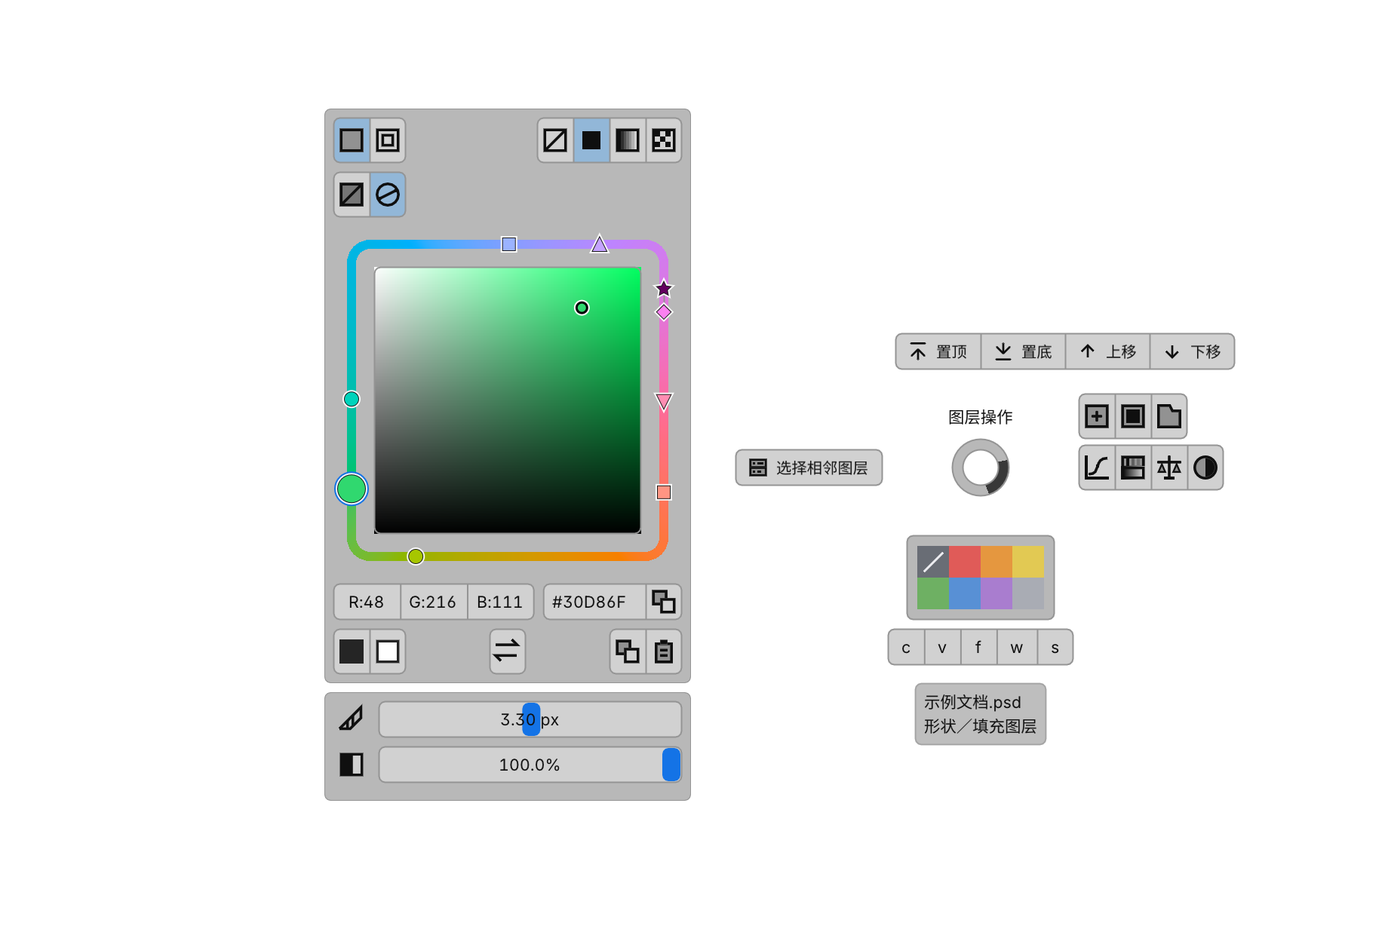
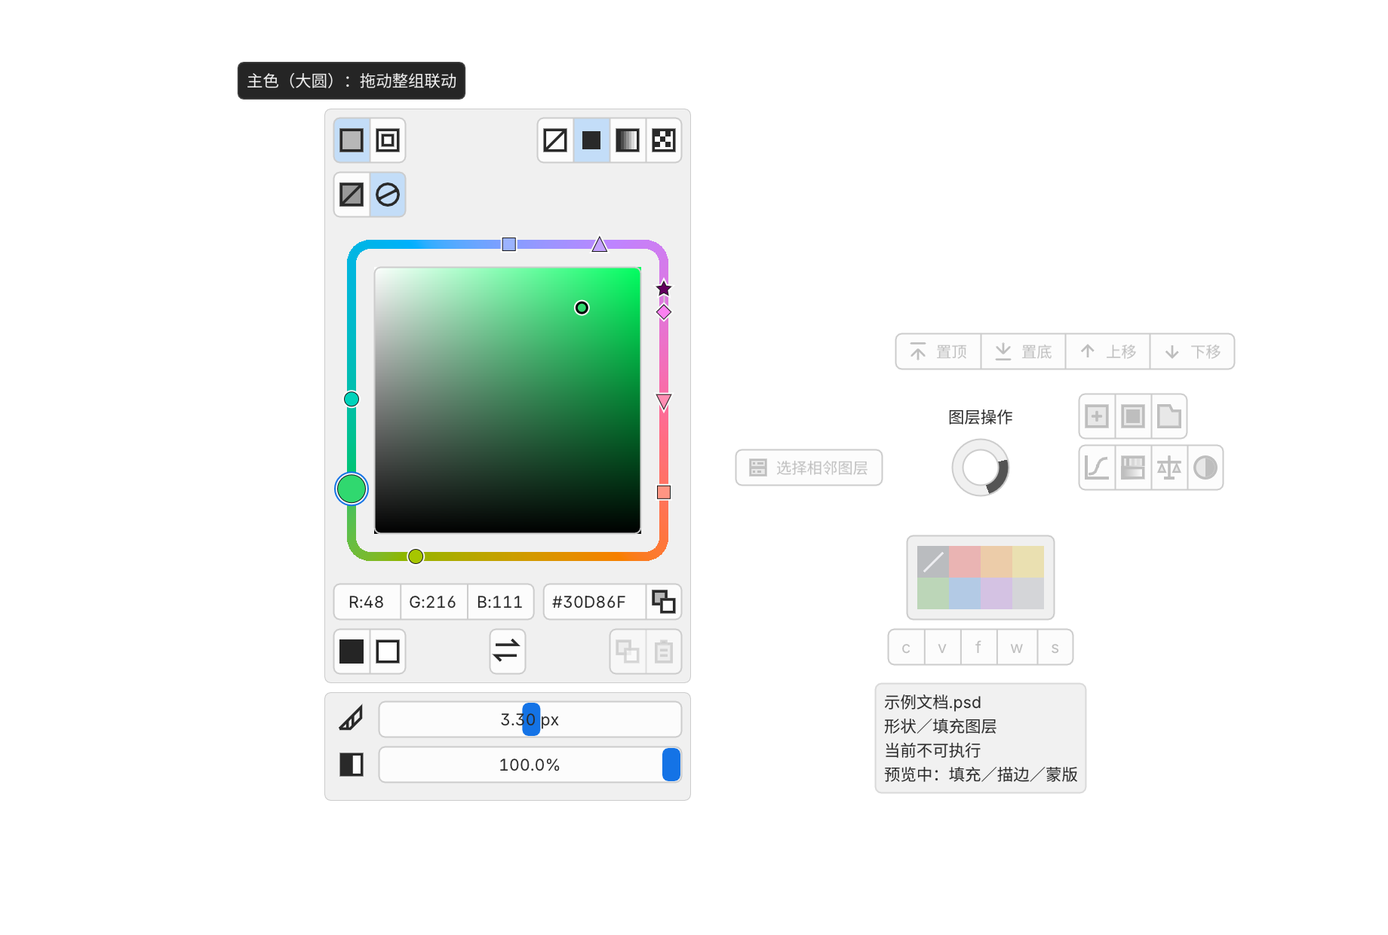
Release 0.4.190: keep owning-editor tooltips visible during preview and avoid clipped placement

diff --git a/native/MenuHost.cpp b/native/MenuHost.cpp
@@ -288,7 +288,9 @@ static unsigned renderedFrames=0;
 static std::wstring preview;
 static std::string previewKind="menu";
 static int previewRecentHover=-1;
-static int previewQuickHover=-1,previewActionHover=-1,previewCapsHover=-1;
+static int previewQuickHover=-1,previewActionHover=-1,previewCapsHover=-1,previewShapeHover=-1;
+static bool previewOwningEditor=false;
+static float previewShapeHeight=0;
 static bool previewLifecycle=false;
 static bool previewLive=false;
 static bool previewShape=false;
@@ -1071,11 +1073,15 @@ static ImVec4 actionTipBounds(int action) {
     const auto pos=ImGui::GetMainViewport()->Pos,size=ImGui::GetMainViewport()->Size;
     if(action>=200 && action<234){
         const RECT group=tipGroupRect(action),anchor=shapeTipRows[action-200];
+        const auto heading=font->CalcTextSizeA(font->FontSize,FLT_MAX,0,panelTitle());
+        const RECT centre={LONG(pieCenter.x-std::max(19*scale,heading.x*.5f)),LONG(pieCenter.y-40*scale),
+                           LONG(pieCenter.x+std::max(19*scale,heading.x*.5f)),LONG(pieCenter.y+19*scale)};
         const float x=std::clamp((anchor.left+anchor.right-width)*.5f,pos.x+8*scale,std::max(pos.x+8*scale,pos.x+size.x-width-8*scale));
         const ImVec4 above={x,group.top-gap-height,x+width,group.top-gap};
         auto valid=[&](ImVec4 tip){
             if(tip.x<pos.x+8*scale || tip.y<pos.y+8*scale || tip.z>pos.x+size.x-8*scale || tip.w>pos.y+size.y-8*scale)return false;
             if(tipOverlaps(tip,shapeEditor.bounds,2*scale) || tipOverlaps(tip,shapeEditor.maskBounds,2*scale))return false;
+            if(tipOverlaps(tip,centre,2*scale))return false;
             for(const auto& row:holdRows)if(tipOverlaps(tip,row,2*scale))return false;
             for(const auto& row:quickRows)if(tipOverlaps(tip,row,2*scale))return false;
             for(const auto& row:capsRows)if(tipOverlaps(tip,row,2*scale))return false;
@@ -1086,7 +1092,24 @@ static ImVec4 actionTipBounds(int action) {
         const float left=group.left-gap-width;
         const float y=std::clamp(float(anchor.top),pos.y+8*scale,std::max(pos.y+8*scale,pos.y+size.y-height-8*scale));
         for(const auto& candidate:std::array<ImVec4,3>{{{left,y,left+width,y+height},{group.right+gap,y,group.right+gap+width,y+height},{x,group.bottom+gap,x+width,group.bottom+gap+height}}})if(valid(candidate))return candidate;
-        return {};
+        // A tall panel can touch the viewport edge. Search free side corridors
+        // instead of silently suppressing the tip when all four anchors fail.
+        std::vector<float> rows={float(group.top),float(anchor.top),pos.y+8*scale,pos.y+size.y-height-8*scale};
+        auto obstacle=[&](RECT r){if(r.right>r.left && r.bottom>r.top){rows.push_back(r.top-gap-height);rows.push_back(r.bottom+gap);}};
+        obstacle(centre);obstacle(shapeEditor.bounds);obstacle(shapeEditor.maskBounds);
+        obstacle({LONG(footerBounds.x),LONG(footerBounds.y),LONG(footerBounds.z),LONG(footerBounds.w)});
+        for(const auto& r:holdRows)obstacle(r);
+        for(const auto& r:quickRows)obstacle(r);
+        for(const auto& r:capsRows)obstacle(r);
+        ImVec4 best{};float score=FLT_MAX;
+        for(float px:{float(group.right)+gap,left,pos.x+8*scale,pos.x+size.x-width-8*scale})for(float py:rows){
+            const ImVec4 candidate={roundf(px),roundf(py),roundf(px+width),roundf(py+height)};
+            if(!valid(candidate))continue;
+            const float dx=(candidate.x+candidate.z-anchor.left-anchor.right)*.5f,dy=(candidate.y+candidate.w-anchor.top-anchor.bottom)*.5f;
+            const float distance=dx*dx+dy*dy;
+            if(distance<score){score=distance;best=candidate;}
+        }
+        return best;
     }
     RECT anchor=action>=40?capsRows[action-40]:action>=32?quickRows[action-32]:action>=12?recentRows[action-12]:action>=4?labelRows[action-4]:holdRows[action];
     RECT group=anchor;
@@ -1463,7 +1486,8 @@ static void drawPie() {
     messages.push_back(taskStatus()+(taskFailed && !taskError.empty()?"\n"+taskError:""));
     drawFooter(messages,pieCenter.y+(capsReady && panelKind!=4?143.f:116.f)*scale,panelKind==4);
     const int tipAction=shapeEditor.ready() && shapeTipCandidate>=200?shapeTipCandidate:actionTipText(selected)?selected:-1;
-    const bool showTip=!pieAnimating && !holdFinished && canExecute();
+    const bool ownEditorTip=tipAction>=200 && tipAction<234 && shapeEditor.ready();
+    const bool showTip=!pieAnimating && !holdFinished && !inputFocused && !ImGui::IsAnyItemActive() && (ownEditorTip || canExecute());
     const int displayed=!preview.empty()?(showTip?tipAction:-1):hoverTip.update(tipAction,tipFamily(tipAction),GetTickCount64(),tipGapAt(hoverTip.shown,cursor),showTip);
     if(displayed>=0)drawActionTip(displayed);else tipVisual.reset();
 }
@@ -1718,6 +1742,9 @@ int main() {
         else if (i+1<argc && arg==L"--preview-caps-hover") previewCapsHover=std::stoi(argv[++i]);
         else if (i+1<argc && arg==L"--preview-quick-hover") previewQuickHover=std::stoi(argv[++i]);
         else if (i+1<argc && arg==L"--preview-progress") previewProgressStage=std::filesystem::path(argv[++i]).u8string();
+        else if (i+1<argc && arg==L"--preview-shape-hover") previewShapeHover=std::stoi(argv[++i]);
+        else if (arg==L"--preview-owning-editor") previewOwningEditor=true;
+        else if (i+1<argc && arg==L"--preview-shape-height") previewShapeHeight=std::clamp(std::stof(argv[++i]),440.f,620.f);
         else if (i+1<argc && arg==L"--preview-shape") {
             std::ifstream source(std::filesystem::path(argv[++i]));Json data;source>>data;
             shapeEditor.prepare(data);previewShape=true;previewKind="hold";
@@ -1973,7 +2000,7 @@ int main() {
     if (!selfTest) {ShowWindow(window,preview.empty()?SW_SHOWNORMAL:SW_SHOWNOACTIVATE);UpdateWindow(window);}
         resetMenu();
         if (previewKind=="hold" || previewKind=="busy") {
-            SetWindowPos(window,nullptr,testOrigin.x,testOrigin.y,static_cast<int>((previewShape?920:panelKind==4?820:620)*scale),static_cast<int>((previewShape?menuShapeWindowHeight:440)*scale),SWP_NOZORDER|SWP_NOACTIVATE);
+            SetWindowPos(window,nullptr,testOrigin.x,testOrigin.y,static_cast<int>((previewShape?920:panelKind==4?820:620)*scale),static_cast<int>((previewShape?(previewShapeHeight>0?previewShapeHeight:menuShapeWindowHeight):440)*scale),SWP_NOZORDER|SWP_NOACTIVATE);
             setHoldMode(true);
             if (previewKind=="busy") accept({{"type","operation"},{"busy",true},{"action","select"}});
             if(!previewProgressStage.empty())accept({{"type","preview.progress"},{"epoch",menuEpoch},{"phase","preview"},{"stage",previewProgressStage},{"done",12},{"total",previewProgressStage=="redraw"?0:32},{"frame",2}});
@@ -2055,6 +2082,12 @@ int main() {
                     io.AddMousePosEvent((r.left+r.right)*.5f,(r.top+r.bottom)*.5f);
                     io.AddMouseButtonEvent(ImGuiMouseButton_Left,frames==22);
                 }
+            }
+            if(!preview.empty() && previewShapeHover>=0 && previewShapeHover<34 && frames>=2){
+                const auto r=shapeTipRows[previewShapeHover];
+                const ImVec2 point=previewShapeHover>=25?perceptualPicker.points[previewShapeHover-25]:ImVec2{(r.left+r.right)*.5f,(r.top+r.bottom)*.5f};
+                io.AddMouseViewportEvent(ImGui::GetMainViewport()->ID);io.AddMousePosEvent(point.x,point.y);io.AddMouseButtonEvent(ImGuiMouseButton_Left,false);
+                if(previewOwningEditor)maskPreviewStarted=true;
             }
             ImGui::NewFrame();drawMenu();ImGui::Render();
             ++renderedFrames;
@@ -2619,6 +2652,34 @@ int main() {
                     if(perceptualPicker.active!=i || perceptualPicker.base!=base || testedActions.size()!=shapeCount)
                         throw std::runtime_error("Wheel point pickup changed the base or dispatched a second task");
                 }
+                // A hovered, still-editable color control must retain its
+                // read-only tip after the first write starts the shared preview.
+                hoverTip.reset();const auto roleHover=perceptualPicker.points[3];
+                io.AddMousePosEvent(roleHover.x,roleHover.y);numberFrame(ImGuiKey_None,false);
+                hoverTip.pendingSince=GetTickCount64()-200;numberFrame(ImGuiKey_None,false);
+                if(!maskPreviewStarted || canExecute() || !shapeEditor.ready() || hoverTip.shown!=228 || !tipVisual.ready)
+                    throw std::runtime_error("Owning live preview recognized hover but suppressed its visible tooltip");
+                const auto tipTestTheme=uiTheme,tipTestFont=uiFontSize;auto* tipTestDefault=io.FontDefault;
+                for(const char* themeName:{"light","light-gray","dark-gray","dark"})for(const char* fontName:{"small","large"})for(float panelHeight:{500.f,620.f}){
+                    uiTheme=themeName;theme();uiFontSize=fontName;io.FontDefault=menuFonts[fontIndex()];
+                    SetWindowPos(window,nullptr,0,0,int(920*scale),int(panelHeight*scale),SWP_NOMOVE|SWP_NOZORDER|SWP_NOACTIVATE);
+                    ImGui_ImplWin32_NewFrame();numberFrame(ImGuiKey_None,false);
+                    for(int i=0;i<perceptual::wheelCount;++i){
+                        const auto p=perceptualPicker.points[i];hoverTip.reset();io.AddMousePosEvent(p.x,p.y);numberFrame(ImGuiKey_None,false);
+                        hoverTip.pendingSince=GetTickCount64()-200;numberFrame(ImGuiKey_None,false);
+                        if(hoverTip.shown!=225+i || !tipVisual.ready || tipVisual.bounds.z<=tipVisual.bounds.x ||
+                           tipOverlaps(tipVisual.bounds,shapeEditor.bounds) || tipOverlaps(tipVisual.bounds,shapeEditor.maskBounds))
+                            throw std::runtime_error("Live preview tooltip clipped or missing in theme/font/height matrix: "+std::to_string(i)+" "+themeName+" "+fontName+" "+std::to_string(panelHeight));
+                        if(canExecute() || capsEnabled(0) || holdActionAt({LONG((tipVisual.bounds.x+tipVisual.bounds.z)*.5f),LONG((tipVisual.bounds.y+tipVisual.bounds.w)*.5f)})!=-1)
+                            throw std::runtime_error("Tooltip display changed input or operation permissions");
+                    }
+                }
+                uiTheme=tipTestTheme;theme();uiFontSize=tipTestFont;io.FontDefault=tipTestDefault;
+                SetWindowPos(window,nullptr,0,0,int(920*scale),int(menuShapeWindowHeight*scale),SWP_NOMOVE|SWP_NOZORDER|SWP_NOACTIVATE);
+                ImGui_ImplWin32_NewFrame();numberFrame(ImGuiKey_None,false);
+                inputFocused=true;numberFrame(ImGuiKey_None,false);
+                if(tipVisual.ready || hoverTip.shown!=-1)throw std::runtime_error("Input protection retained a visible editing tooltip");
+                inputFocused=false;numberFrame(ImGuiKey_None,false);
                 const auto wheelDraft=shapeEditor.draft;const auto dot=perceptualPicker.points[3];
                 io.AddMousePosEvent(dot.x,dot.y);numberFrame(ImGuiKey_None,false);io.AddMouseButtonEvent(0,true);numberFrame(ImGuiKey_None,false);
                 const auto wb=perceptualPicker.wheelBounds;const float cx=(wb.left+wb.right)*.5f,cy=(wb.top+wb.bottom)*.5f;
@@ -2884,7 +2945,14 @@ int main() {
                 inputFocused=false;capsReady=false;
                 std::cout<<"Dear ImGui self-test passed: original radial/focus/input/cancel matrix; shape local draft, types, single release, stale cursor, pinned commit; production SHOWWINDOW content and 100 hidden frames\n";break;
             }
-            if (!preview.empty() && frames==20) {screenshot(preview);if (!previewLive) break;}
+            if (!preview.empty() && frames==20) {
+                screenshot(preview);
+                if(previewShapeHover>=0){auto report=std::filesystem::path(preview);report+=L".tooltip.json";
+                    std::ofstream(report)<<Json{{"candidate",shapeTipCandidate},{"visible",tipVisual.ready},{"text",tipVisual.text},
+                        {"bounds",{tipVisual.bounds.x,tipVisual.bounds.y,tipVisual.bounds.z,tipVisual.bounds.w}},
+                        {"preview_running",maskPreviewStarted},{"other_actions_enabled",canExecute()}}.dump();}
+                if (!previewLive) break;
+            }
             if (SUCCEEDED(swapChain->Present(1,0))) renderedHit=holdFinished?-1:pendingHit;
             finishPlatformFrame();
         }

diff --git a/backend/version.py b/backend/version.py
@@ -1,1 +1,1 @@
-APP_VERSION = '0.4.189'
+APP_VERSION = '0.4.190'

diff --git a/TODO.md b/TODO.md
@@ -1,7 +1,10 @@
 # Photoshop Menu TODO
 
+- [x] 190提示修复代码／构建／实际入口：修复颜色／羽化实时预览开始后悬停tip消失：只读提示按当前编辑面板是否仍可用显示，不再被“其他图层操作禁用”的条件一并关闭。其他操作、目标、输入与未知结果保护保持。 原189条件已复现；双核原生完整矩阵＋144悬停场景、四主题32普通导出＋172张提示像素核对及两轮PS事务通过。实际190／UXP43，无需重启PS，原稿／配置／资源与未知记录保留。实体鼠标／画布仍待验收；未改Python／前端使用既有回归基线。证据.runtime/tooltip190-reproduced.json、tooltip190/pixels.json、tooltip190-batch/pixels.json、recovery190/runtime.json、live-matrix.json及native190-low.log。
+- [ ] 190公开交付：待源码／标签、Wiki、公开附件和限流备用更新核验；之后只保留190 Release，188／189附件先备份、标签和源码历史保留。
+
 - [x] 189配色标记代码／构建／实际入口：用形状识别配色关系：主色大圆、邻近色小圆、互补色菱形、分裂互补色上／下三角、三色配色方形、强调／明暗对比色星形。九个标记仍同时显示，内部显示真实颜色，选中用蓝色轮廓强调。 452回归、双核原生完整矩阵、四主题32导出及两轮PS24.0.1事务通过（低CPU取消恢复、正常确认一次撤销）；尖角命中、九点拾取／拖动、闲置缓存及输入／焦点／取消保持。实际189／UXP43，未重启PS；原稿／配置／资源与旧未知记录保留。实体键鼠／画布与其他硬件待验收。证据.runtime/recovery189/runtime.json、live-matrix.json、native189-low.log、ui189-verified.json。
-- [ ] 189公开交付：待源码／标签、Wiki、公开附件及限流备用通道核验；通过后仅保留189 Release，旧附件本地备份及Git标签／源码历史保留。
+- [ ] 189公开交付由190收尾：189源码／标签、形状标记与Wiki已推送，但用户指出hover tip实际显示失败；保留该失败记录，未把目标识别检查当显示通过。修复合并190，待190下载核验后统一交付、保留189标签和回退副本。
 
 - [x] 188代码、构建与实际入口：预览脚本退出后恢复PS原生操作；未完全结束时继续保留图层列表点击保护和小运行提示。颜色编辑改为中央方块＋外围圆角色相轨道，九种配色点同显、主色点更大。 v0.4.188／UXP0.3.43已构建并切换本机实际入口，EXE及原生组件匹配。452项Python回归、40项前端、脚本模拟、双逻辑处理器／Below Normal原生完整矩阵及四主题32份原生导出通过。PS24.0.1六轮真实事务（低CPU四轮、正常两轮）核对确认一次撤销、取消恢复、选层／内容／路径／顺序及资源还原；包括128层确认及两次调用端暂失确认的故障注入。故障注入不改原收据、不重发；宿主退出后原生配置确认解除保护，插件新写入继续被拒绝，再仅读取原收据完成核对。原稿已备份并正常重载，历史未知记录及配置保持。 原生模拟输入和PS接口测试分别记录，未代替实体鼠标／Caps／Esc到画布目视与提示音验收；现代PS、真实办公i5／集显／低内存及Win10仍待对应设备验证。双核限制仅模拟CPU并发。128层收尾本轮约12.4秒，仍有等待，本次不宣称其首次读取已提速。 证据.runtime/recovery188/runtime.json、live-matrix.json、tests188.log、native188-low.log、ui188-verified.json。
 - [ ] 188实体画布／键鼠与跨硬件验收：核对新方块拖动、九点联动、真实Esc、收尾提示及PS原生操作；现代PS／真实办公低配单列，不能用模拟替代。

diff --git a/docs/PERCEPTUAL-COLOR.md b/docs/PERCEPTUAL-COLOR.md
@@ -1,5 +1,15 @@
 # 方块取色、感知配色与渐变
 
+190／UXP43：修复颜色／羽化实时预览开始后悬停tip消失：只读提示按当前编辑面板是否仍可用显示，不再被“其他图层操作禁用”的条件一并关闭。其他操作、目标、输入与未知结果保护保持。
+
+在配色标记、填充／描边、取色器切换及羽化／密度上悬停可查看说明；拖动或输入时仍隐藏提示。首次停留150ms、同组切换60ms及原有视觉过渡不变，不增加按键或宿主调用等待。高面板贴近窗口边缘时，四个默认位置放不下会继续寻找空闲侧边位置，避让编辑面板、中心、按钮和信息区；提示仍只绘制，不截获输入、不扩大命中。
+
+189用户反馈的“tip没有出现”已在保留旧显示条件的原生程序中复现：识别到配色标记、实时预览仍可编辑，但实际提示为空。此前仅识别悬停目标的检查不算显示验收；本次补齐实际帧绘制和像素核对。189的不同形状标记继续保留。
+
+190／UXP43已切换实际入口，EXE及原生组件匹配；无需重启已有UXP43／PS。双逻辑处理器／Below Normal原生完整输入／焦点／取消矩阵及144个编辑中悬停场景通过，四主题32份普通菜单导出保持。172张悬停图逐张核对底板、文字像素及纹理边界，覆盖单层与批量蒙版、九个配色标记和编辑控件、两种字号、500／620逻辑单位高度及760／920宽度。
+
+两轮PS24.0.1事务通过（低CPU取消恢复、正常确认一次撤销），核对内容／路径／顺序、原选层和资源恢复；无新未知请求，原稿、配置和历史未知记录保持。本次Python／前端／UXP执行逻辑未改，除应用版本外与189一致；Python452项及前端40项沿用已有未改基线，不冒称本次重新运行。实体鼠标／Caps／Esc到画布目视、其他PS和真实办公低配仍待对应验收。
+
 189／UXP43：用形状识别配色关系：主色大圆、邻近色小圆、互补色菱形、分裂互补色上／下三角、三色配色方形、强调／明暗对比色星形。九个标记仍同时显示，内部显示真实颜色，选中用蓝色轮廓强调。
 
 仅改变标记呈现，不改变原有九点配色算法。悬停显示关系与形状说明；点击应用当前颜色，拖动整组联动。重合时只错开显示位置、用细引线保留真实色位，不改变颜色。颜色方块、RGB／Hex、菜单位置和原有实时预览、Esc取消恢复及一次撤销保持。

diff --git a/docs/UI-GUIDE.md b/docs/UI-GUIDE.md
@@ -1,5 +1,7 @@
 # UI 指南
 
+190／UXP43：修复颜色／羽化实时预览开始后悬停tip消失：只读提示按当前编辑面板是否仍可用显示，不再被“其他图层操作禁用”的条件一并关闭。其他操作、目标、输入与未知结果保护保持。 在配色标记、填充／描边、取色器切换及羽化／密度上悬停可查看说明；拖动或输入时仍隐藏提示。首次停留150ms、同组切换60ms及原有视觉过渡不变，不增加按键或宿主调用等待。高面板贴近窗口边缘时，四个默认位置放不下会继续寻找空闲侧边位置，避让编辑面板、中心、按钮和信息区；提示仍只绘制，不截获输入、不扩大命中。 [复现和验证范围](PERCEPTUAL-COLOR.md)。
+
 189／UXP43：用形状识别配色关系：主色大圆、邻近色小圆、互补色菱形、分裂互补色上／下三角、三色配色方形、强调／明暗对比色星形。九个标记仍同时显示，内部显示真实颜色，选中用蓝色轮廓强调。 原布局、配色算法与实时预览／取消／一次撤销保持；几何用于绘制、命中和避让，不新增运行时资源加载。[用法与验证范围](PERCEPTUAL-COLOR.md)。
 
 188／UXP43：采用独立实现的中央方块与外围圆角色相轨道，保留九点联动、主色尺寸两倍、RGB／Hex同排、全图标、无标题及独立羽化面板。方块精细调整RGB饱和度／亮度，外围按OKLCH配色；移除右侧独立明度条及其命中。仍复用主题／字体／共享指标，原菜单锚点和取消规则不变。[范围](PERCEPTUAL-COLOR.md)。脚本退出及小提示规则见[执行退出](PREVIEW-EXECUTION.md)。

diff --git a/RELEASES.md b/RELEASES.md
@@ -1,5 +1,13 @@
 # 发行记录
 
+## v0.4.190
+
+修复颜色／羽化实时预览开始后悬停tip消失：只读提示按当前编辑面板是否仍可用显示，不再被“其他图层操作禁用”的条件一并关闭。其他操作、目标、输入与未知结果保护保持。
+
+190／UXP43已切换实际入口，EXE及原生组件匹配；无需重启已有UXP43／PS。双逻辑处理器／Below Normal原生完整输入／焦点／取消矩阵及144个编辑中悬停场景通过，四主题32份普通菜单导出保持。172张悬停图逐张核对底板、文字像素及纹理边界，覆盖单层与批量蒙版、九个配色标记和编辑控件、两种字号、500／620逻辑单位高度及760／920宽度。
+
+两轮PS24.0.1事务通过（低CPU取消恢复、正常确认一次撤销），核对内容／路径／顺序、原选层和资源恢复；无新未知请求，原稿、配置和历史未知记录保持。本次Python／前端／UXP执行逻辑未改，除应用版本外与189一致；Python452项及前端40项沿用已有未改基线，不冒称本次重新运行。实体鼠标／Caps／Esc到画布目视、其他PS和真实办公低配仍待对应验收。
+
 ## v0.4.189
 
 用形状识别配色关系：主色大圆、邻近色小圆、互补色菱形、分裂互补色上／下三角、三色配色方形、强调／明暗对比色星形。九个标记仍同时显示，内部显示真实颜色，选中用蓝色轮廓强调。

diff --git a/docs/SHAPE-PAINT-CLIPBOARD.md b/docs/SHAPE-PAINT-CLIPBOARD.md
@@ -1,5 +1,7 @@
 # 形状填充／描边复制粘贴
 
+190／UXP43：修复颜色／羽化实时预览开始后悬停tip消失：只读提示按当前编辑面板是否仍可用显示，不再被“其他图层操作禁用”的条件一并关闭。其他操作、目标、输入与未知结果保护保持。 在配色标记、填充／描边、取色器切换及羽化／密度上悬停可查看说明；拖动或输入时仍隐藏提示。首次停留150ms、同组切换60ms及原有视觉过渡不变，不增加按键或宿主调用等待。高面板贴近窗口边缘时，四个默认位置放不下会继续寻找空闲侧边位置，避让编辑面板、中心、按钮和信息区；提示仍只绘制，不截获输入、不扩大命中。 [复现和验证范围](PERCEPTUAL-COLOR.md)。
+
 189／UXP43：用形状识别配色关系：主色大圆、邻近色小圆、互补色菱形、分裂互补色上／下三角、三色配色方形、强调／明暗对比色星形。九个标记仍同时显示，内部显示真实颜色，选中用蓝色轮廓强调。 原布局、配色算法与实时预览／取消／一次撤销保持；几何用于绘制、命中和避让，不新增运行时资源加载。[用法与验证范围](PERCEPTUAL-COLOR.md)。
 
 188／UXP43：中央方块与外围配色圆点保留填充／描边复制及单个或批量粘贴；复制仅本地读取，事务与选层校验不变。[取色与验证范围](PERCEPTUAL-COLOR.md)。

diff --git a/OFFLINE-INSTALL.md b/OFFLINE-INSTALL.md
@@ -1,5 +1,7 @@
 # 统一后台与 UXP 离线管理
 
+当前v0.4.190／UXP0.3.43。修复实时预览中的悬停提示；已加载UXP43无需重启PS。
+
 当前v0.4.189／UXP0.3.43。新增不同形状的配色标记；已加载UXP43时无需重启PS。
 
 当前v0.4.188／UXP0.3.43。实时预览需要更新并加载UXP43，以提供可靠的脚本退出核验；安装后正常重启PS。已有配置保留；历史未知记录不会因更新清除。[运行与保护](docs/PREVIEW-EXECUTION.md)。

diff --git a/docs/images/README.md b/docs/images/README.md
@@ -28,3 +28,5 @@
 188：layer-menu.png为中央方块＋外围配色轨道的原生示例导出；不代替实体PS拖动验收。
 
 189：layer-menu.png展示六类形状的九个联动配色标记，来自原生导出，实体拖动另待验收。
+
+190：layer-menu.png展示编辑中仍可见的主色tip；为带模拟悬停的真实原生渲染导出，不代替实体PS鼠标验收。
